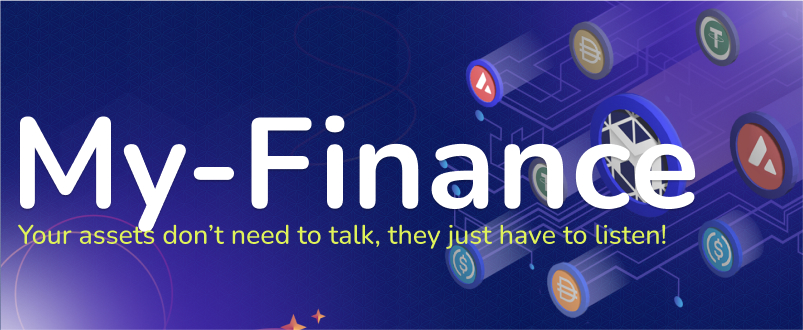
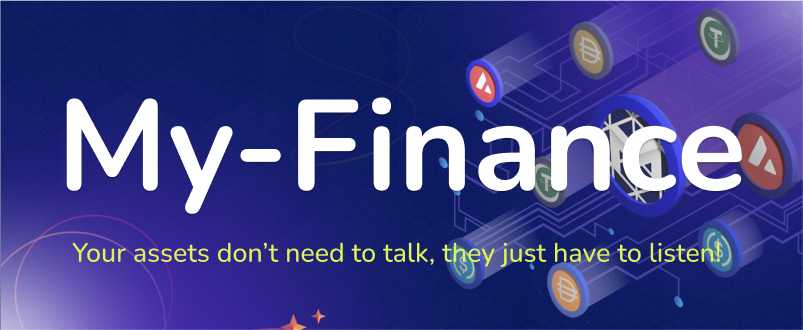
Tablet layout

Changed region(s): [[0.0, 0.2727, 0.934, 0.8182]]

diff --git a/views/projects.html b/views/projects.html
@@ -89,7 +89,7 @@
             <!-- Project Sections -->
             <section class="project">
                 <div class="row align-items-center">
-                    <div class="col-md-6 order-2 order-lg-1">
+                    <div class="col-lg-6 order-2 order-lg-1">
                         <h2 class="my-lg-5">My-Chance: Rewriting the Lottery Landscape</h2>
                         <p>
                             My-Chance is a transformative lottery platform brought to life by Mycelium Network. Unlike traditional lotteries, 
@@ -108,18 +108,18 @@
                         </p>
                         <a id="project-button" href="#" class="btn btn-primary mt-lg-3">Go to Project</a>
                     </div>
-                    <div class="col-md-6 order-1 order-lg-2">
-                        <img class="project-img my-auto" src="/public/img/mychance-square.jpg" alt="Project 1 image">
+                    <div class="col-lg-6 order-1 order-lg-2">
+                        <img class="project-img my-auto img-fluid" src="/public/img/mychance-square.jpg" alt="Project 1 image">
                     </div>
                 </div>
             </section>
             <section class="project">
                 <div class="row align-items-center">
-                    <div class="col-md-6">
-                        <img class="project-img my-auto img-fluid d-md-none" src="/public/img/myfinance-tablet.jpg" alt="Project 1 image for tablet">
-                        <img class="project-img my-auto img-fluid d-none d-md-block" src="/public/img/myfinance-square.jpg" alt="Project 1 image">
+                    <div class="col-lg-6">
+                        <img class="project-img my-auto img-fluid d-lg-none mb-5" src="/public/img/myfinance-tablet.jpg" alt="Project 1 image for tablet">
+                        <img class="project-img my-auto img-fluid d-none d-lg-block" src="/public/img/myfinance-square.jpg" alt="Project 1 image">
                     </div>
-                    <div class="col-md-6 ps-lg-5">
+                    <div class="col-lg-6 ps-lg-5">
                         <h2 class="my-lg-5">MyFinance is MyNet’s innovative liquidity pool protocol.</h2>
                         <p>
                             MyFinance automatically streamlines support to important social causes around the world, while 
@@ -138,7 +138,7 @@
             </section>
             <section class="project">
                 <div class="row align-items-center">
-                    <div class="col-md-6 order-2 order-lg-1">
+                    <div class="col-lg-6 order-2 order-lg-1">
                         <h2 class="my-lg-5">My-Credit, the upcoming addition to Mycelium Network's pioneering project portfolio.</h2>
                         <p>
                             Building on our mission to bridge the gap between the Web3 world and traditional finance, 
@@ -155,7 +155,7 @@
                             Stay tuned as we make strides toward a more inclusive and sustainable financial ecosystem with My-Credit!
                         </p>
                     </div>
-                    <div class="col-md-6 order-1 order-lg-2">
+                    <div class="col-lg-6 order-1 order-lg-2">
                         <img class="project-img my-auto" src="/public/img/mychance-square.jpg" alt="Project 1 image">
                     </div>
                 </div>

diff --git a/index.html b/index.html
@@ -155,7 +155,7 @@
             <h1>Our Projects</h1>
             <div class="row align-items-center"> 
                 <!-- Image Carousel -->
-                <div class="col-md-8 d-flex justify-content-center align-content-center"> 
+                <div class="col-lg-8 d-flex justify-content-center align-content-center"> 
                     <div id="projectCarousel" class="carousel slide" data-bs-ride="carousel">
                         <div class="carousel-inner">
                             <div class="carousel-item active">
@@ -180,7 +180,7 @@
                     </div>
                 </div>
                 <!-- Project Description -->
-                <div class="project-description col-md-4 d-flex flex-column">
+                <div class="project-description col-lg-4 d-flex flex-column">
                     <h2 id="project-title">My-Chance</h2>  
                     <p id="project-description-1"> 
                         Experience the innovation of MyChance, a project pioneering risk-free investment opportunities in the world of blockchain. 
@@ -246,7 +246,7 @@
     <div class="container h-100">
         <div class="g-3 row h-100 align-items-center justify-content-center gx-5">
           <!-- Column 1 -->
-          <div  class="col-md-6 text-center p-5 d-flex flex-column">
+          <div  class="col-lg-6 text-center p-lg-5 p-1 d-flex flex-column">
             <div id="partner-card" class="card">
                <div class="my-auto">
                  <img src="public/img/mycelium-magic.jpg" class="img-fluid rounded mb-3 partner-img" alt="Mycelium Network partner Magic Square">
@@ -268,7 +268,7 @@
             </div>
           </div>
              <!-- Column 2 -->
-             <div class="col-md-6 text-center p-5 d-flex flex-column">
+             <div class="col-lg-6 text-center p-lg-5 p-1 d-flex flex-column">
                <div id="partner-card" class="card">
                <div class="my-auto">
                  <img src="public/img/mycelium-wombat.jpg" class="img-fluid rounded mb-3 partner-img" alt="Mycelium Network partner Speilworks">

diff --git a/public/js/app.js b/public/js/app.js
@@ -140,6 +140,30 @@ gsap.fromTo("#social-decoration-flip",
   }
 });
 
+gsap.from(".about-content-container:first-child .about-content", {
+  duration: 1,
+  opacity: 0,
+  y: 30,
+  x: -30,
+  stagger: 0.3
+});
+
+// Fade-in animation for other paragraphs when they appear on screen
+gsap.utils.toArray(".about-content-container:not(:first-child) .about-content").forEach(function(elem) {
+  gsap.from(elem, {
+      scrollTrigger: {
+          trigger: elem,
+          start: "top 60%", // start when the top of the element hits 90% from the top of the viewport
+          end: "bottom 30%", // end when the bottom of the element hits 60% from the top of the viewport
+          toggleActions: "play none none reverse" 
+      },
+      duration: 1,
+      opacity: 0,
+      y: 30,
+      x: -30,
+  });
+});
+
 
 
 
@@ -196,8 +220,8 @@ $(function(){
             items:1,
             nav:true
         },
-        600:{
-            items:1, 
+        500:{
+            items:2, 
             nav:true  
         },
         1000:{

diff --git a/public/css/styles.css b/public/css/styles.css
@@ -443,6 +443,9 @@ footer a {
         height: fit-content !important;
     }
     /* Partnerships */
+    #partnerships {
+        padding: 0 !important;
+    }
     #partnerships img {
         height: 250px;
         margin: 0;
@@ -558,6 +561,7 @@ footer a {
     .min-height-h2 {
         margin-bottom: 20px;
         width: 100%;
+        font-size: 2rem !important;
     }
     .min-height-p {
         width: 100%;

diff --git a/public/css/social.css b/public/css/social.css
@@ -82,6 +82,8 @@
     .cause-img{
         height: 200px;
         margin-bottom: 25px;
+        width: fit-content;
+        object-fit: contain !important;
     }
     .social-cause {
         text-align: center;
